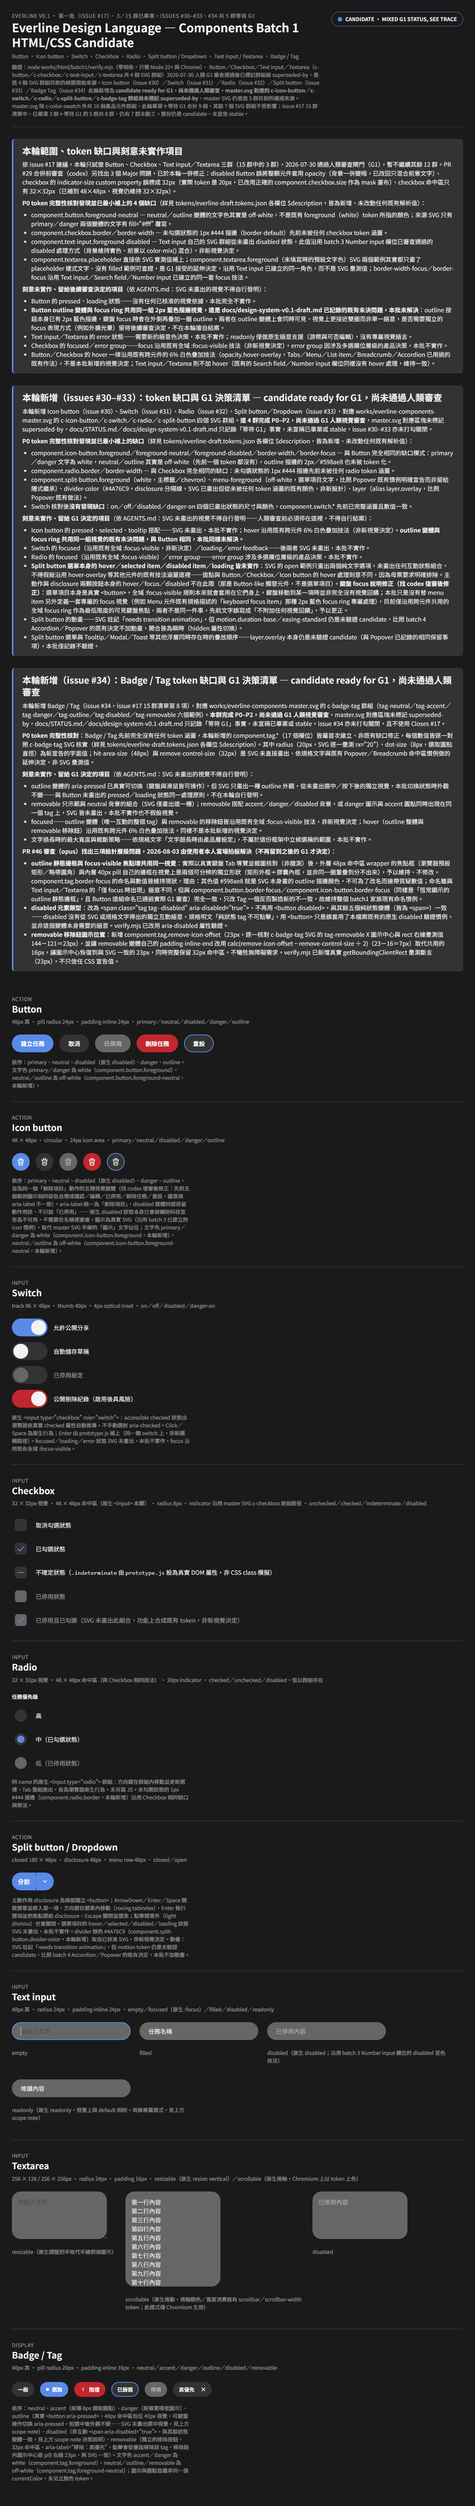
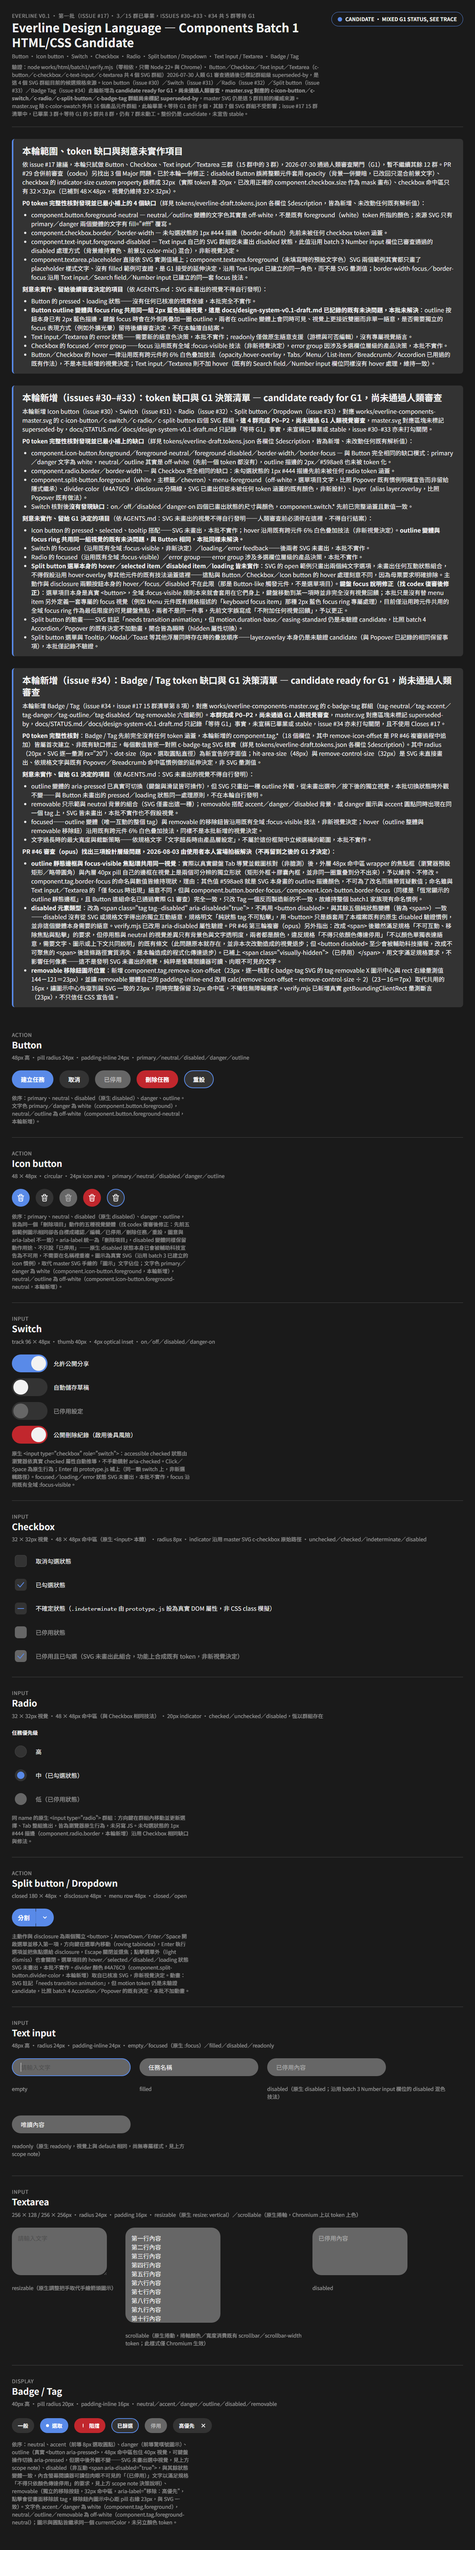
Address PR #46 review round 3 (opus): fix stale token count, restore non-color disabled indication
1. component.tag.* is 18 fields (remove-icon-offset was added mid-review),
   but docs/STATUS.md and index.html still said 17, contradicting the
   already-updated PR body. Fixed both to 18.

2. Switching disabled from <button disabled> to <span aria-disabled="true">
   (round 2 fix) satisfies "not interactive" but left disabled
   distinguishable from neutral by color alone (background + text opacity),
   violating this component's own spec text ("不得只依顏色傳達停用" /
   "不以顏色單獨表達語意，需要文字、圖示或上下文共同說明"). The color-only
   visual gap predates this PR, but losing screen-reader announcement (a
   real <button disabled> is announced; a non-focusable <span> effectively
   isn't) is a real regression the round-2 change introduced. Fixed with a
   screen-reader-only "（已停用）" span reusing the existing .visually-hidden
   utility already used elsewhere in this file — text, not a new pixel, so
   this isn't "inventing an undrawn visual".

174/174 checks pass (up from 172).

diff --git a/works/html/batch1/index.html b/works/html/batch1/index.html
@@ -62,7 +62,7 @@
       <aside class="scope-note" aria-labelledby="scope-title-3">
         <h2 id="scope-title-3">本輪新增（issue #34）：Badge / Tag token 缺口與 G1 決策清單 — candidate ready for G1，尚未通過人類審查</h2>
         <p>本輪新增 Badge / Tag（issue #34，issue #17 15 群清單第 8 項），對應 <code>works/everline-components-master.svg</code> 的 <code>c-badge-tag</code> 群組（<code>tag-neutral</code>／<code>tag-accent</code>／<code>tag-danger</code>／<code>tag-outline</code>／<code>tag-disabled</code>／<code>tag-removable</code> 六個範例）。<strong>本群完成 P0–P2，尚未通過 G1 人類視覺審查</strong>，master.svg 對應區塊未標記 <code>superseded-by</code>，<code>docs/STATUS.md</code>／<code>docs/design-system-v0.1-draft.md</code> 只記錄「等待 G1」事實，未宣稱已畢業或 stable，issue #34 亦未打勾關閉，且不使用 <code>Closes #17</code>。</p>
-        <p><strong>P0 token 完整性核對</strong>：Badge / Tag 先前完全沒有任何 token 涵蓋，本輪新增的 <code>component.tag.*</code>（17 個欄位）皆屬首次建立、非既有缺口修正，每個數值皆逐一對照 <code>c-badge-tag</code> SVG 核實（詳見 <code>tokens/everline-draft.tokens.json</code> 各欄位 <code>$description</code>）。其中 <code>radius</code>（20px，SVG 逐一量測 <code>rx="20"</code>）、<code>dot-size</code>（8px，選取圓點直徑）為新宣告的字面值；<code>hit-area-size</code>（48px）與 <code>remove-control-size</code>（32px）是 SVG 未直接畫出、依規格文字與既有 Popover／Breadcrumb 命中區慣例做的延伸決定，非 SVG 量測值。</p>
+        <p><strong>P0 token 完整性核對</strong>：Badge / Tag 先前完全沒有任何 token 涵蓋，本輪新增的 <code>component.tag.*</code>（18 個欄位，其中 <code>remove-icon-offset</code> 是 PR #46 複審過程中追加）皆屬首次建立、非既有缺口修正，每個數值皆逐一對照 <code>c-badge-tag</code> SVG 核實（詳見 <code>tokens/everline-draft.tokens.json</code> 各欄位 <code>$description</code>）。其中 <code>radius</code>（20px，SVG 逐一量測 <code>rx="20"</code>）、<code>dot-size</code>（8px，選取圓點直徑）為新宣告的字面值；<code>hit-area-size</code>（48px）與 <code>remove-control-size</code>（32px）是 SVG 未直接畫出、依規格文字與既有 Popover／Breadcrumb 命中區慣例做的延伸決定，非 SVG 量測值。</p>
         <p><strong>刻意未實作、留給 G1 決定的項目</strong>（依 <code>AGENTS.md</code>：SVG 未畫出的視覺不得自行發明）：</p>
         <ul>
           <li>outline 變體的 <code>aria-pressed</code> 已真實可切換（鍵盤與滑鼠皆可操作），但 SVG 只畫出一種 outline 外觀，從未畫出選中／按下後的獨立視覺，本批切換狀態時外觀不變——與 Button 未畫出的 <code>pressed</code>／<code>loading</code> 狀態同一處理原則，不在本輪自行發明。</li>
@@ -73,7 +73,7 @@
         <p><strong>PR #46 審查（opus）找出三項設計層級問題，2026-08-03 由使用者本人當場拍板解決（不再留到之後的 G1 才決定）</strong>：</p>
         <ul>
           <li><strong>outline 靜態邊框與 focus-visible 焦點環共用同一視覺</strong>：實際以真實鍵盤 <code>Tab</code> 導覽並截圖核對（非臆測）後，外層 48px 命中區 wrapper 的焦點框（瀏覽器預設矩形／略帶圓角）與內層 40px pill 自己的邊框在視覺上是兩個可分辨的獨立形狀（矩形外框＋膠囊內框，並非同一圈重疊到分不出來），予以維持、不修改。<code>component.tag.border-focus</code> 的命名與數值皆維持現狀，理由：其色值 <code>#598ae8</code> 就是 SVG 本身畫的 outline 描邊顏色，不可為了改名而連帶質疑數值；命名雖與 Text input／Textarea 的「僅 focus 時出現」語意不同，但與 <code>component.button.border-focus</code>／<code>component.icon-button.border-focus</code>（同樣是「恆常顯示的 outline 靜態邊框」，且 Button 這組命名已通過實際 G1 審查）完全一致，只改 Tag 一個反而製造新的不一致，故維持整個 batch1 家族現有命名慣例。</li>
-          <li><strong>disabled 元素類型</strong>：改為 <code>&lt;span class="tag tag--disabled" aria-disabled="true"&gt;</code>，不再用 <code>&lt;button disabled&gt;</code>，與其餘五個純狀態變體（皆為 <code>&lt;span&gt;</code>）一致——disabled 沒有從 SVG 或規格文字得出的獨立互動語意，規格明文「純狀態 tag 不可點擊」，用 <code>&lt;button&gt;</code> 只是誤套用了本檔案既有的原生 disabled 驗證慣例，並非這個變體本身需要的語意。<code>verify.mjs</code> 已改用 <code>aria-disabled</code> 屬性驗證。</li>
+          <li><strong>disabled 元素類型</strong>：改為 <code>&lt;span class="tag tag--disabled" aria-disabled="true"&gt;</code>，不再用 <code>&lt;button disabled&gt;</code>，與其餘五個純狀態變體（皆為 <code>&lt;span&gt;</code>）一致——disabled 沒有從 SVG 或規格文字得出的獨立互動語意，規格明文「純狀態 tag 不可點擊」，用 <code>&lt;button&gt;</code> 只是誤套用了本檔案既有的原生 disabled 驗證慣例，並非這個變體本身需要的語意。<code>verify.mjs</code> 已改用 <code>aria-disabled</code> 屬性驗證。PR #46 第三輪複審（opus）另外指出：改成 <code>&lt;span&gt;</code> 後雖然滿足規格「不可互動、移除焦點與點擊」的要求，但停用態與 neutral 的視覺差異只有背景色與文字透明度，兩者都是顏色，違反規格「不得只依顏色傳達停用」「不以顏色單獨表達語意，需要文字、圖示或上下文共同說明」的既有條文（此問題原本就存在，並非本次改動造成的視覺退步；但 <code>&lt;button disabled&gt;</code> 至少會被輔助科技播報，改成不可聚焦的 <code>&lt;span&gt;</code> 後這條路徑實質消失，是本輪造成的程式化傳達退步）。已補上 <code>&lt;span class="visually-hidden"&gt;（已停用）&lt;/span&gt;</code>，用文字滿足規格要求，不影響任何像素——這不是發明 SVG 未畫出的視覺，純粹是螢幕閱讀器可讀、肉眼不可見的文字。</li>
           <li><strong>removable 移除鈕圖示位置</strong>：新增 <code>component.tag.remove-icon-offset</code>（23px，逐一核對 <code>c-badge-tag</code> SVG 的 <code>tag-removable</code> X 圖示中心與 rect 右緣量測值 144－121＝23px），並讓 removable 變體自己的 <code>padding-inline-end</code> 改用 <code>calc(remove-icon-offset − remove-control-size ÷ 2)</code>（23－16＝7px）取代共用的 16px，讓圖示中心恢復到與 SVG 一致的 23px，同時完整保留 32px 命中區，不犧牲無障礙需求。<code>verify.mjs</code> 已新增真實 <code>getBoundingClientRect</code> 量測斷言（23px），不只信任 CSS 宣告值。</li>
         </ul>
       </aside>
@@ -313,7 +313,7 @@
           <button class="tag-button" type="button" aria-pressed="false" data-tag-toggle>
             <span class="tag tag--outline">已篩選</span>
           </button>
-          <span class="tag tag--disabled" aria-disabled="true">停用</span>
+          <span class="tag tag--disabled" aria-disabled="true">停用<span class="visually-hidden">（已停用）</span></span>
           <span class="tag tag--removable">
             高優先
             <button class="tag__remove" type="button" aria-label="移除：高優先" data-tag-remove>
@@ -321,7 +321,7 @@
             </button>
           </span>
         </div>
-        <p class="example-label">依序：neutral、accent（前導 8px 選取圓點）、danger（前導驚嘆號圖示）、outline（真實 <code>&lt;button aria-pressed&gt;</code>，48px 命中區包住 40px 視覺，可鍵盤操作切換 <code>aria-pressed</code>，但選中後外觀不變——SVG 未畫出選中視覺，見上方 scope note）、disabled（非互動 <code>&lt;span aria-disabled="true"&gt;</code>，與其餘狀態變體一致，見上方 scope note 決策說明）、removable（獨立的移除按鈕，32px 命中區，<code>aria-label="移除：高優先"</code>，點擊會從畫面移除該 tag，移除鈕內圖示中心距 pill 右緣 23px，與 SVG 一致）。文字色 accent／danger 為 white（<code>component.tag.foreground</code>），neutral／outline／removable 為 off-white（<code>component.tag.foreground-neutral</code>）；圖示與圓點皆繼承同一個 <code>currentColor</code>，未另立顏色 token。</p>
+        <p class="example-label">依序：neutral、accent（前導 8px 選取圓點）、danger（前導驚嘆號圖示）、outline（真實 <code>&lt;button aria-pressed&gt;</code>，48px 命中區包住 40px 視覺，可鍵盤操作切換 <code>aria-pressed</code>，但選中後外觀不變——SVG 未畫出選中視覺，見上方 scope note）、disabled（非互動 <code>&lt;span aria-disabled="true"&gt;</code>，與其餘狀態變體一致，內含螢幕閱讀器可讀但肉眼不可見的「（已停用）」文字以滿足規格「不得只依顏色傳達停用」的要求，見上方 scope note 決策說明）、removable（獨立的移除按鈕，32px 命中區，<code>aria-label="移除：高優先"</code>，點擊會從畫面移除該 tag，移除鈕內圖示中心距 pill 右緣 23px，與 SVG 一致）。文字色 accent／danger 為 white（<code>component.tag.foreground</code>），neutral／outline／removable 為 off-white（<code>component.tag.foreground-neutral</code>）；圖示與圓點皆繼承同一個 <code>currentColor</code>，未另立顏色 token。</p>
       </section>
     </main>
     <script src="prototype.js"></script>

diff --git a/docs/STATUS.md b/docs/STATUS.md
@@ -11,7 +11,7 @@
 - 累計進度：第一批 17 類（`works/everline-components-master.svg`）、第二批 7 類、第三批 4 類（issue #5-#8，已畢業為 `works/html/batch3/`）、第四批 4 類（issue #9 Slider、#10 Accordion、#11 Popover、#12 Date / Time picker，已畢業為 `works/html/batch4/`）皆已有 candidate；四批合計 32 類皆仍是 candidate／草稿狀態，尚未逐項確認用途、狀態、無障礙、來源追溯等完整規格條件（見 `AGENTS.md` 元件規格的 12 項完成檢查），非正式定稿。第二階段候選（19 類，非必做）尚未開始。
 - 2026-07-30：issue #17（第一批 15 群畢業為 HTML/CSS）依 issue 建議先試辦 Button、Checkbox、Text input／Textarea 三群（1/4），**2026-07-30 通過人類審查閘門（G1），已畢業，仍是 candidate，未宣告 stable**。P0 token 完整性核對對照 `works/everline-components-master.svg` 逐項數值後，補上 4 個先前未涵蓋的缺口（純新增，未改動任何既有解析值，見 `tokens/everline-draft.tokens.json` 對應 `$description`）：Button 的 neutral／outline 變體文字色其實是 off-white 而非既有 `foreground` token 所指的 white；Checkbox 未勾選狀態的 1px 邊框先前未被任何 token 涵蓋；Text input／Textarea 的 disabled 前景色與 Textarea 的 foreground／placeholder／focus 邊框先前完全沒有對應 token。候選規格位於 `works/html/batch1/`，以 `node works/html/batch1/verify.mjs`（CDP 驅動真實 headless Chrome）驗證。PR #29 提出後，codex 合併前審查發現 3 個 Major、1 個 Minor，已於 PR head 之後一輪修正：(1) disabled Button 誤對整顆元件套 `opacity`，把核准 SVG 的實色 `#666666` 背景一起壓暗，已改為只對前景文字用既有 `color-mix()` 技法混色，背景維持實色；(2) `component.checkbox.indicator-size`（20px）與 CSS 同名 custom property 被誤標成 32px，驗證腳本先前只比對「custom property 有無對應到某個 token 路徑」、未比對解析值，已改用正確的 `component.checkbox.size` 作為 mask 畫布，並把 CSS 契約驗證升級為同時比對解析值；(3) checkbox 命中區只有 32×32px，未達規格「32px 視覺置於至少 48×48px 命中區」的要求，已將原生 `<input>` 本體擴到 48×48px、透過 `::before`／`::after` 偽元素在其中置中繪出 32×32px 視覺，label 關聯與 indeterminate 真實 DOM 狀態不受影響；(4/Minor) `component.textarea.foreground` 的 token 描述先前誤寫成「依 SVG 量測」，實際上 SVG 只畫了 placeholder 樣式文字、沒有可查證的 filled 範例，已改記為 G1 接受的延伸決定。`works/everline-components-master.svg` 的 c-button／c-checkbox／c-text-input／c-textarea 四個 SVG 群組已標記群組級 `superseded-by: works/html/batch1/index.html`（master.svg 檔案層級狀態不變，仍是 candidate；除 c-color-swatch 外共 16 個產品元件群組，扣除這 4 個，其餘 12 個 SVG 群組不受影響）。Button 的 `pressed`／`loading`、欄位的 `error` 狀態，以及既有的 outline 變體與 focus ring 共用同一視覺的未決問題，仍未實作／未解決，留待後續審查決定。issue #17 其餘 12 群（15 群中未畢業的部分）不受影響，仍以 master SVG 為權威來源。修正後的 `verify.mjs` 新增了 custom property 解析值與 token 逐一比對（而不只是名稱比對）、disabled Button 的真實截圖 RGB 驗證，以及 checkbox 48×48 命中區的真實點擊測試，重新執行後 62/62 通過。
 - 2026-07-31：issue #17 新增 Icon button（issue #30）、Switch（issue #31）、Radio（issue #32）、Split button／Dropdown（issue #33）四群候選規格，**candidate ready for G1，尚未通過人類視覺審查**；`works/everline-components-master.svg` 對應的 `c-icon-button`／`c-switch`／`c-radio`／`c-split-button` 群組尚未標記 `superseded-by`，master SVG 仍是這 4 群目前的權威來源，issue #30–#33 亦未打勾關閉。P0 token 完整性核對對照 SVG 逐項數值後：Icon button 補上 `foreground`／`foreground-neutral`／`foreground-disabled`／`border-width`／`border-focus`（與 Button 相同的既有缺口模式，純新增）；Radio 補上 `border`／`border-width`（與 Checkbox 相同的既有缺口模式）；Split button 補上 `foreground`（white）、`menu-foreground`（off-white，比照 Popover 既有慣例明確宣告）、`divider-color`（`#4A76C9`，SVG 已畫出但從未 token 化的既有分隔線顏色，非新設計）、`layer`（alias `layer.overlay`）；Switch 核對後沒有發現任何缺口，既有 token 已完整涵蓋 on／off／disabled／danger-on 四個已畫出狀態。候選規格擴充至 `works/html/batch1/`：Icon button 用真實 SVG 圖示（沿用 batch 3 已建立的 icon 慣例）取代 master SVG 的「圖示」文字佔位；Switch 用原生 `<input type="checkbox" role="switch">`，accessible checked 狀態由瀏覽器依真實 `checked` 屬性自動推導，另補 Enter 鍵切換（native checkbox 原生不支援，click／Space 為原生行為）；Radio 用同 `name` 的原生 radio 群組包在 `<fieldset>`／`<legend>` 內，方向鍵選擇與 Tab 整組進出皆為瀏覽器原生行為，未寫額外 JS；Split button 的主動作與 disclosure 為兩個獨立 `<button>`，選單是真實 `role="menu"`／`role="menuitem"` 搭配 roving `tabindex`，`ArrowDown`／`Enter`／`Space` 開啟、方向鍵在選單內移動、`Enter` 執行並將焦點還給 disclosure、`Escape` 與點擊選單外皆可關閉；選單項目本身的 `hover`／`selected`／`disabled`／`loading` 狀態，以及 Switch 的 `focused`／`loading`／`error`、Radio 的 `error group`、Icon button 的 `pressed`／`selected`／`tooltip`（及與 Button 相同的 outline／focus-ring 共用同一視覺的既有未決問題）SVG 皆未畫出，本輪不實作，列為 G1 決策清單；選單項目的鍵盤 focus 例外——它們是真實 `<button>`，全域 `:focus-visible` 本來就會套用，只是沒有另外定義 menu item 專屬的 focus 視覺，並非完全沒有回饋。動畫：Split button 的 SVG 註記「needs transition animation」，因 motion token 仍是未驗證 candidate，比照 batch 4 Accordion／Popover 的既有決定不加動畫。以 `node works/html/batch1/verify.mjs`（CDP 驅動真實輸入事件，涵蓋 token 完整性、CSS 解析值契約、computed dimensions、真實點擊與鍵盤操作、RGB 截圖採樣、響應式無溢出、無動效掃描）驗證，125/125 通過。
-- 2026-08-03：issue #17 新增 Badge / Tag（issue #34，15 群清單第 8 項）候選規格，**candidate ready for G1，尚未通過人類視覺審查**；`works/everline-components-master.svg` 對應的 `c-badge-tag` 群組尚未標記 `superseded-by`，master SVG 仍是這一群目前的權威來源，issue #34 亦未打勾關閉，不使用 `Closes #17`。此元件先前完全沒有 token 涵蓋，P0 核對後新增 17 個 `component.tag.*` 欄位（純新增，非缺口修正，見 `tokens/everline-draft.tokens.json` 對應 `$description`），皆逐一對照 `c-badge-tag` SVG 核實：neutral／accent／danger／disabled 四色沿用既有語意 token（`background-surface`／`action-primary`／`action-danger`／`background-subdued`），文字與圖示前景延續 Button／Icon button 已確立的「primary／danger 變體用 white，neutral／outline 變體用 off-white」規則；圓角（20px，40px 高度之半）、選取圓點（8px 直徑）為新宣告字面值；命中區相關的 `hit-area-size`（48px，outline 整體可互動篩選標籤的命中區）與 `remove-control-size`（32px，removable 移除鈕）皆非 SVG 直接畫出，是依規格文字與既有 Popover／Breadcrumb 命中區慣例做的延伸決定。候選規格擴充至 `works/html/batch1/`：outline 變體實作為真實 `<button aria-pressed>`，滿足規格「可點擊篩選器需明確游標、鍵盤操作及選取狀態」的互動要求，但 SVG 只畫出一種 outline 外觀、從未畫出選中／按下的獨立視覺，故切換 `aria-pressed` 時外觀不變（與 Button 未畫出的 `pressed`／`loading` 同一處理原則，不自行發明視覺）；removable 變體的移除鈕是獨立的真實 `<button>`，有專屬 `aria-label="移除：<標籤文字>"`，點擊會將該 tag 從畫面移除（真實 DOM 異動，非只是淡出，因 SVG 未畫出移除動畫）；leading 圓點與兩個圖示皆使用 `currentColor`，未另立顏色 token，因為 SVG 本身的圓點／圖示填色與同一個 tag 的文字填色一律相同。以 `node works/html/batch1/verify.mjs` 驗證，涵蓋 token 完整性、CSS 解析值契約、computed dimensions、outline 的真實點擊與鍵盤（Enter／Space）切換測試、removable 移除鈕的真實點擊測試（測試後於同一頁面重新插入並重新綁定監聽器，恢復頁面狀態供 G1 審查截圖使用）、RGB 截圖採樣，165/165 通過（含既有 7 群的既有檢查，全部重新執行仍通過）。PR #46 提出後，opus 審查發現並已修正：(1) `component.tag.hit-area-size`／`remove-control-size` 的 token `$description` 與 `verify.mjs` check 標籤誤寫成「G1-accepted extension decision」，但 Badge/Tag 尚未通過 G1，與同一份 PR 的其餘文件自相矛盾，已改為「extension pending G1 review」一類措辭；(2) removable 移除鈕的鍵盤 Enter 觸發移除後，被刪元素連同鍵盤焦點一起消失、掉回 `<body>`，屬真實鍵盤導覽缺陷（不受「SVG 未畫出視覺不得發明」保護），已比照 batch 4 Popover「focus 一律要回到明確位置」的既有先例修正：改為移到同群組下一個／上一個移除鈕，皆不存在時退回群組容器本身（`.tag-examples` 補上 `tabindex="-1"` 作為此退回目標），並在 `verify.mjs` 新增 `document.activeElement` 斷言；(3) `verify.mjs` 的「Rendered colour」區塊先前沒有任何 Badge/Tag 條目，本輪四個新實色（neutral／accent／danger／disabled 背景）只做了 `getComputedStyle` 沒有真實截圖 RGB 採樣，不符本檔案既有慣例（Button／Icon button／Switch 新增實色時皆有採樣，disabled Button 當初就是靠這個方法抓出 PR #29 的背景誤變暗問題），已比照既有手法補上。以下 3 點審查核實無誤、屬設計決策層級的問題，2026-08-03 由使用者本人當場拍板解決（不留到之後的 G1 才決定）：(a) outline 靜態邊框與全域 `:focus-visible` 焦點環同色同寬的疑慮——以真實鍵盤 `Tab` 導覽並截圖核對後，48px 外層命中區的焦點框與 40px 內層 pill 自己的邊框在視覺上是兩個可分辨的獨立形狀（矩形外框＋膠囊內框），維持現狀不修改；`component.tag.border-focus` 的命名與數值皆維持不變——數值是 SVG 本身畫的顏色不可為了改名連帶質疑，命名雖與 Text input／Textarea 不同語意但與 `component.button.border-focus`／`component.icon-button.border-focus`（Button 這組已通過實際 G1 審查）完全一致，只改 Tag 一個反而製造新的不一致。(b) disabled 元素類型——改為 `<span class="tag tag--disabled" aria-disabled="true">`，不再用 `<button disabled>`，與其餘五個純狀態變體一致，`verify.mjs` 改用 `aria-disabled` 屬性驗證。(c) removable 移除鈕圖示位置——新增 `component.tag.remove-icon-offset`（23px，逐一核對 SVG `tag-removable` X 圖示中心與 rect 右緣量測值 144－121）、removable 自己的 `padding-inline-end` 改用 `calc(remove-icon-offset − remove-control-size ÷ 2)`（7px）取代共用的 16px，讓圖示中心恢復到與 SVG 一致的 23px，同時完整保留 32px 命中區；`verify.mjs` 新增真實 `getBoundingClientRect` 量測斷言（23px），不只信任 CSS 宣告值。三項決策已同步寫入 `works/html/batch1/index.html` 對應 scope note。全部修正後重新執行 `node works/html/batch1/verify.mjs`，172/172 通過。
+- 2026-08-03：issue #17 新增 Badge / Tag（issue #34，15 群清單第 8 項）候選規格，**candidate ready for G1，尚未通過人類視覺審查**；`works/everline-components-master.svg` 對應的 `c-badge-tag` 群組尚未標記 `superseded-by`，master SVG 仍是這一群目前的權威來源，issue #34 亦未打勾關閉，不使用 `Closes #17`。此元件先前完全沒有 token 涵蓋，P0 核對後新增 18 個 `component.tag.*` 欄位（純新增，非缺口修正，見 `tokens/everline-draft.tokens.json` 對應 `$description`；其中 `remove-icon-offset` 是 PR #46 複審過程中新增，非最初一次到位），皆逐一對照 `c-badge-tag` SVG 核實：neutral／accent／danger／disabled 四色沿用既有語意 token（`background-surface`／`action-primary`／`action-danger`／`background-subdued`），文字與圖示前景延續 Button／Icon button 已確立的「primary／danger 變體用 white，neutral／outline 變體用 off-white」規則；圓角（20px，40px 高度之半）、選取圓點（8px 直徑）為新宣告字面值；命中區相關的 `hit-area-size`（48px，outline 整體可互動篩選標籤的命中區）與 `remove-control-size`（32px，removable 移除鈕）皆非 SVG 直接畫出，是依規格文字與既有 Popover／Breadcrumb 命中區慣例做的延伸決定。候選規格擴充至 `works/html/batch1/`：outline 變體實作為真實 `<button aria-pressed>`，滿足規格「可點擊篩選器需明確游標、鍵盤操作及選取狀態」的互動要求，但 SVG 只畫出一種 outline 外觀、從未畫出選中／按下的獨立視覺，故切換 `aria-pressed` 時外觀不變（與 Button 未畫出的 `pressed`／`loading` 同一處理原則，不自行發明視覺）；removable 變體的移除鈕是獨立的真實 `<button>`，有專屬 `aria-label="移除：<標籤文字>"`，點擊會將該 tag 從畫面移除（真實 DOM 異動，非只是淡出，因 SVG 未畫出移除動畫）；leading 圓點與兩個圖示皆使用 `currentColor`，未另立顏色 token，因為 SVG 本身的圓點／圖示填色與同一個 tag 的文字填色一律相同。以 `node works/html/batch1/verify.mjs` 驗證，涵蓋 token 完整性、CSS 解析值契約、computed dimensions、outline 的真實點擊與鍵盤（Enter／Space）切換測試、removable 移除鈕的真實點擊測試（測試後於同一頁面重新插入並重新綁定監聽器，恢復頁面狀態供 G1 審查截圖使用）、RGB 截圖採樣，165/165 通過（含既有 7 群的既有檢查，全部重新執行仍通過）。PR #46 提出後，opus 審查發現並已修正：(1) `component.tag.hit-area-size`／`remove-control-size` 的 token `$description` 與 `verify.mjs` check 標籤誤寫成「G1-accepted extension decision」，但 Badge/Tag 尚未通過 G1，與同一份 PR 的其餘文件自相矛盾，已改為「extension pending G1 review」一類措辭；(2) removable 移除鈕的鍵盤 Enter 觸發移除後，被刪元素連同鍵盤焦點一起消失、掉回 `<body>`，屬真實鍵盤導覽缺陷（不受「SVG 未畫出視覺不得發明」保護），已比照 batch 4 Popover「focus 一律要回到明確位置」的既有先例修正：改為移到同群組下一個／上一個移除鈕，皆不存在時退回群組容器本身（`.tag-examples` 補上 `tabindex="-1"` 作為此退回目標），並在 `verify.mjs` 新增 `document.activeElement` 斷言；(3) `verify.mjs` 的「Rendered colour」區塊先前沒有任何 Badge/Tag 條目，本輪四個新實色（neutral／accent／danger／disabled 背景）只做了 `getComputedStyle` 沒有真實截圖 RGB 採樣，不符本檔案既有慣例（Button／Icon button／Switch 新增實色時皆有採樣，disabled Button 當初就是靠這個方法抓出 PR #29 的背景誤變暗問題），已比照既有手法補上。以下 3 點審查核實無誤、屬設計決策層級的問題，2026-08-03 由使用者本人當場拍板解決（不留到之後的 G1 才決定）：(a) outline 靜態邊框與全域 `:focus-visible` 焦點環同色同寬的疑慮——以真實鍵盤 `Tab` 導覽並截圖核對後，48px 外層命中區的焦點框與 40px 內層 pill 自己的邊框在視覺上是兩個可分辨的獨立形狀（矩形外框＋膠囊內框），維持現狀不修改；`component.tag.border-focus` 的命名與數值皆維持不變——數值是 SVG 本身畫的顏色不可為了改名連帶質疑，命名雖與 Text input／Textarea 不同語意但與 `component.button.border-focus`／`component.icon-button.border-focus`（Button 這組已通過實際 G1 審查）完全一致，只改 Tag 一個反而製造新的不一致。(b) disabled 元素類型——改為 `<span class="tag tag--disabled" aria-disabled="true">`，不再用 `<button disabled>`，與其餘五個純狀態變體一致，`verify.mjs` 改用 `aria-disabled` 屬性驗證。(c) removable 移除鈕圖示位置——新增 `component.tag.remove-icon-offset`（23px，逐一核對 SVG `tag-removable` X 圖示中心與 rect 右緣量測值 144－121）、removable 自己的 `padding-inline-end` 改用 `calc(remove-icon-offset − remove-control-size ÷ 2)`（7px）取代共用的 16px，讓圖示中心恢復到與 SVG 一致的 23px，同時完整保留 32px 命中區；`verify.mjs` 新增真實 `getBoundingClientRect` 量測斷言（23px），不只信任 CSS 宣告值。三項決策已同步寫入 `works/html/batch1/index.html` 對應 scope note。全部修正後重新執行 `node works/html/batch1/verify.mjs`，172/172 通過。PR #46 第三輪審查（opus）另外找到兩點並已修正：(1) 新增 `remove-icon-offset` 後 `component.tag.*` 實際欄位數已是 18，`docs/STATUS.md`／`works/html/batch1/index.html` 卻還寫著 17，與 PR body 已更新的數字互相矛盾，已一併訂正為 18；(2) disabled 改成 `<span>` 後雖滿足「不可互動」的規格要求，但停用態與 neutral 的視覺差異僅剩背景色與文字透明度（皆為顏色），違反規格「不得只依顏色傳達停用」「需要文字、圖示或上下文共同說明」的既有條文——此視覺落差本身在改動前就存在，非本輪造成，但 `<button disabled>` 至少會被輔助科技播報，改為不可聚焦的 `<span>` 後這條路徑實質消失，屬本輪 `<span>` 決策新造成的程式化傳達退步；已在 disabled 範例內加入沿用既有 `.visually-hidden` utility 的「（已停用）」文字（螢幕閱讀器可讀、肉眼不可見，不算發明新視覺），`verify.mjs` 新增對應斷言。全部修正後重新執行，174/174 通過。
 - 2026-07-30：第四批（issue #9 Slider、#10 Accordion、#11 Popover、#12 Date / Time picker）依 `batch4-plan.tmp.md` 決策獨立成批。SVG 候選稿當日經人工審查通過（審查中決定兩項視覺修正：Slider 焦點環改為 4px 實心無間隙、日期範圍中段改為每日獨立淡色圓而非連續色帶），隨後完成 token 核對與 HTML/CSS 畢業。`works/everline-components-batch4.svg` 已標記為歷史快照，候選規格權威來源為 `works/html/batch4/index.html`，規格與驗證紀錄見 `docs/design-system-v0.1-batch4-draft.md`。四類皆為 candidate，G1–G6 已通過人類驗收，仍非 stable。驗證以 CDP 送真實輸入事件執行（合成事件無法觸發原生 popover 的 Esc／light-dismiss）並含 RGB 採樣與全頁無動效掃描。過程中修正的真實缺陷：值標籤間距公式、時間欄位被 flex 壓縮導致原生地區化時間值裁切（token 128px 不足，改 160px）、矮視窗下 Popover 溢出畫面，以及 PR 審查後修正的月底 PageUp／PageDown 溢位與焦點回復對象錯誤。
 - 2026-07-28：Breadcrumb（issue #7）SVG 候選稿經一輪人工審查修正——原始靠左排列改為每項文字置中於自己的命中區（以 Chrome `getBBox()` 實測文字寬度，非目測），並修正 Loading／Search field 兩區塊間距過窄（原僅 18px，覆蓋到下一區塊標題）的既有排版問題。畢業到 HTML/CSS 時，`<li>` 使用 `display: contents` 讓子元素直接參與 flex 版面，命中區置中改由原生 padding 自然達成，不需複製 SVG 手算的 slot 座標；過程中發現並修正一個真實 bug：`display: contents` 在同優先權下會蓋掉瀏覽器預設的 `[hidden]{display:none}`，導致 collapsed 範例的摺疊項目一開始就沒被正確隱藏（與本檔案既有 `.loading-overlay[hidden]` 註解記載的同一類陷阱）。Number input（issue #8）延伸 Text input／Icon button 既有 token，畢業時改用原生 `<input type="number">` 搭配 `stepUp()`/`stepDown()`，min/max 到界時對應按鈕即時原生 `disabled`（點擊或直接輸入到界皆會觸發）。兩者的像素級驗證（computed style 讀值＋螢幕截圖 RGB 採樣＋DOM 尺寸量測，2026-07-29 PR #26 審查修正後於 PR head 重新完整量測）：Breadcrumb——item 間 32px slot（8px+16px chevron+8px，皆由 `component.breadcrumb.item-gap` 推導，不再借用 `item-padding-inline`）、命中區高 32px、chevron 16px、collapsed 省略號 3 個 4px 圓點、中心距 10px（原 CSS 誤用 3px flex-gap 只達 7px 中心距，已修正為 `calc(ellipsis-dot-gap - ellipsis-dot-size)`）、預設文字色 `rgb(77,77,77)`＝`#4d4d4d`、目前頁／hover 文字色 `rgb(242,242,242)`＝`#f2f2f2`、hover 底色 `rgba(255,255,255,0.06)`。Number input——按鈕 48×48px、欄位 80×48px、按鈕與欄位間 8px、按鈕圖示 24px（原 HTML 圖示 `width/height` 寫死 24，未消費 `button-icon-size` token，已改由 CSS 控制、SVG 移除硬編碼尺寸）；focus 邊框 token 解析為 2px／`#598AE8`，因本輪瀏覽器自動化工具的 `element.focus()` 未取得真正的視窗層級 focus（`document.activeElement` 為欄位本身，但 `:focus` 選擇器不匹配），改以手動套用相同 `box-shadow` 值截圖核對渲染結果，未能直接觸發 `:focus` 偽類驗證，屬已知剩餘風險（此為既有 Text input／Search field 已審查通過的相同技法，非本輪新增邏輯）；default 欄位背景 `rgb(102,102,102)`＝`#666666`、focus 邊框 `rgb(89,138,232)`＝`#598AE8`；min／max reached 以點擊、直接輸入（原生 `input` 事件模擬）分別測試邊界，對應按鈕即時 `disabled`、另一按鈕維持可互動；disabled 狀態背景實測仍為 `rgb(102,102,102)`＝`#666666`（維持實色，未變暗）、內容色實測 `color(srgb .702 .702 .702)`≈`rgb(179,179,179)`＝`#b3b3b3`，與「off-white + opacity.disabled 0.55」的理論混色值一致（原 CSS 對整個 button/input 套用 `opacity: .55`，導致背景也被錯誤帶淡至約 `#444`、內容約 `#919`，已改為背景維持 token 實色、只用 `color-mix()` 對前景色套用 disabled 混色，不再影響背景）。方向鍵（↑/↓）路徑因瀏覽器自動化工具本輪不支援真實鍵盤事件模擬，改以程式碼路徑等價性驗證：鍵盤與點擊、輸入共用同一個原生 `input` 事件觸發的 `sync()`，點擊與直接輸入兩條路徑皆已實測通過，鍵盤觸發的瀏覽器原生 step 行為本身不受本次改動影響，未逐一以真實鍵盤事件覆蓋，屬已知剩餘風險。
 - 2026-07-27：Progress/Loading 元件同時回填了第二批 List／Data table／Kanban column 先前擱置的 `loading` 狀態（`works/html/batch2/`），沿用同一 spinner 視覺套進既有 `empty-state` 容器，未另立新視覺語言；過程中順手修正了 batch2 既有的全域 `prefers-reduced-motion` 規則對「持續循環動畫」（spinner 旋轉）不適用的問題（原規則會讓動畫變成極速閃爍，而不是正確地停在靜態畫面）。
